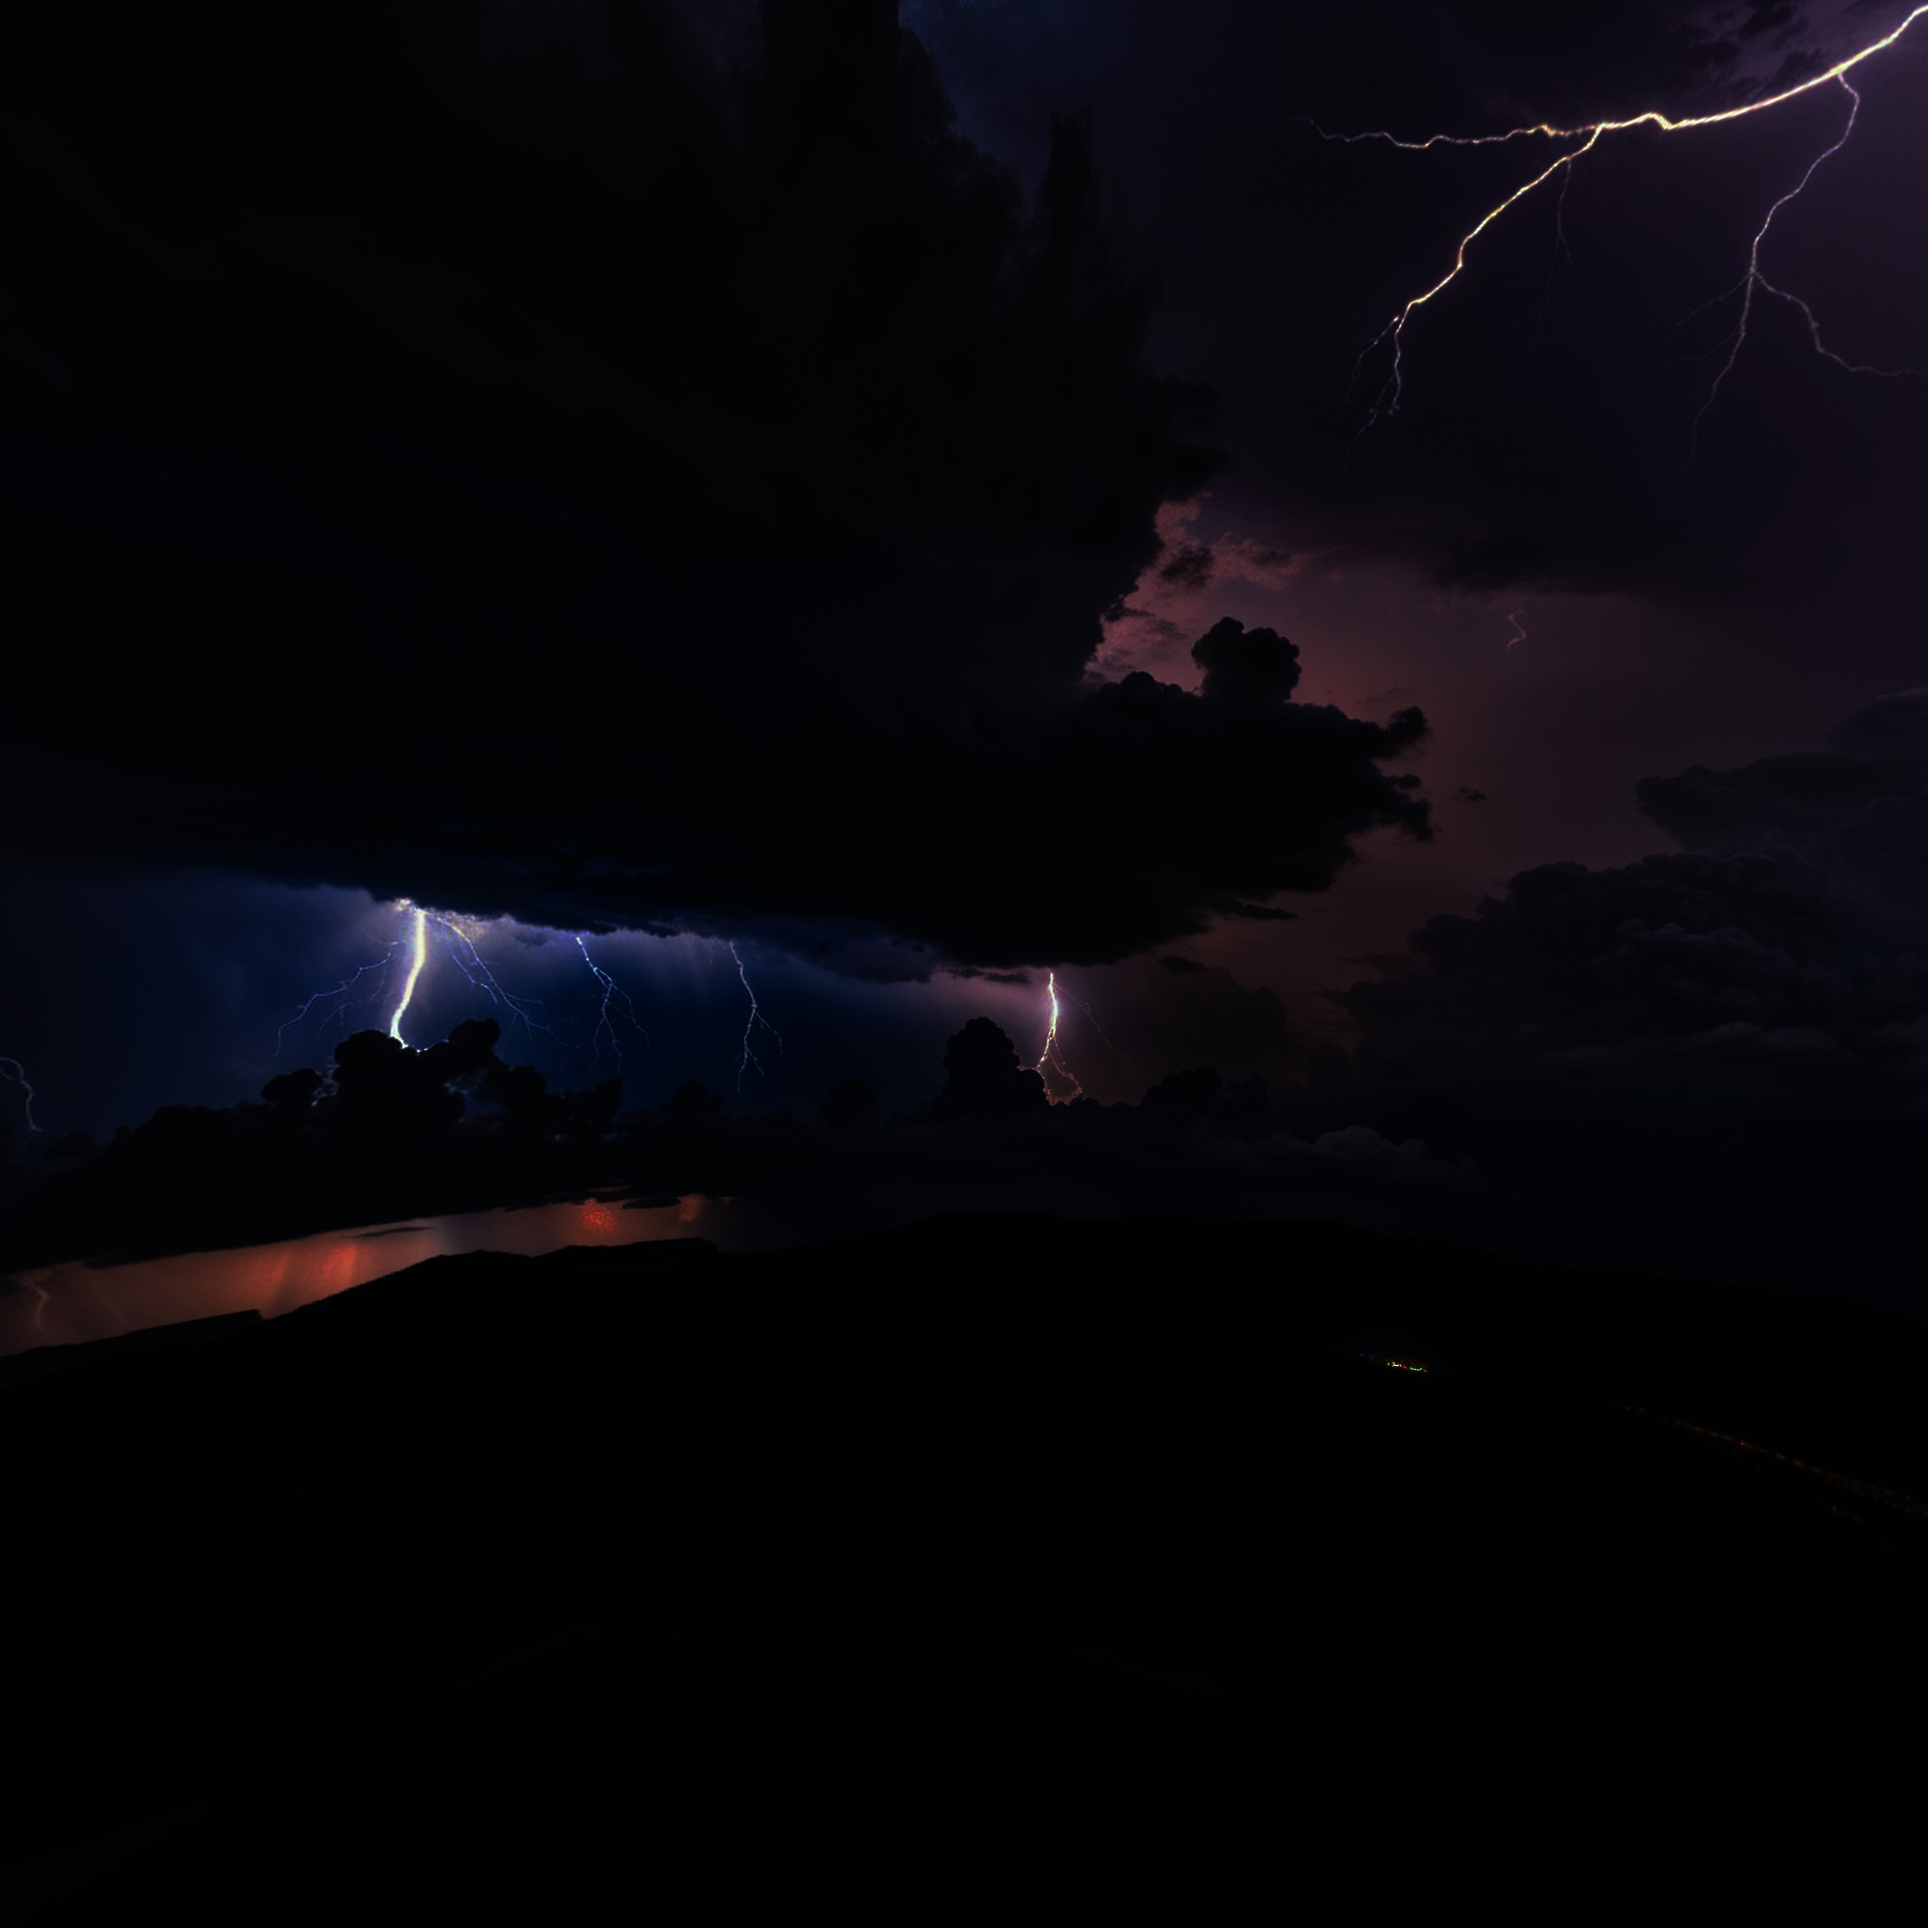
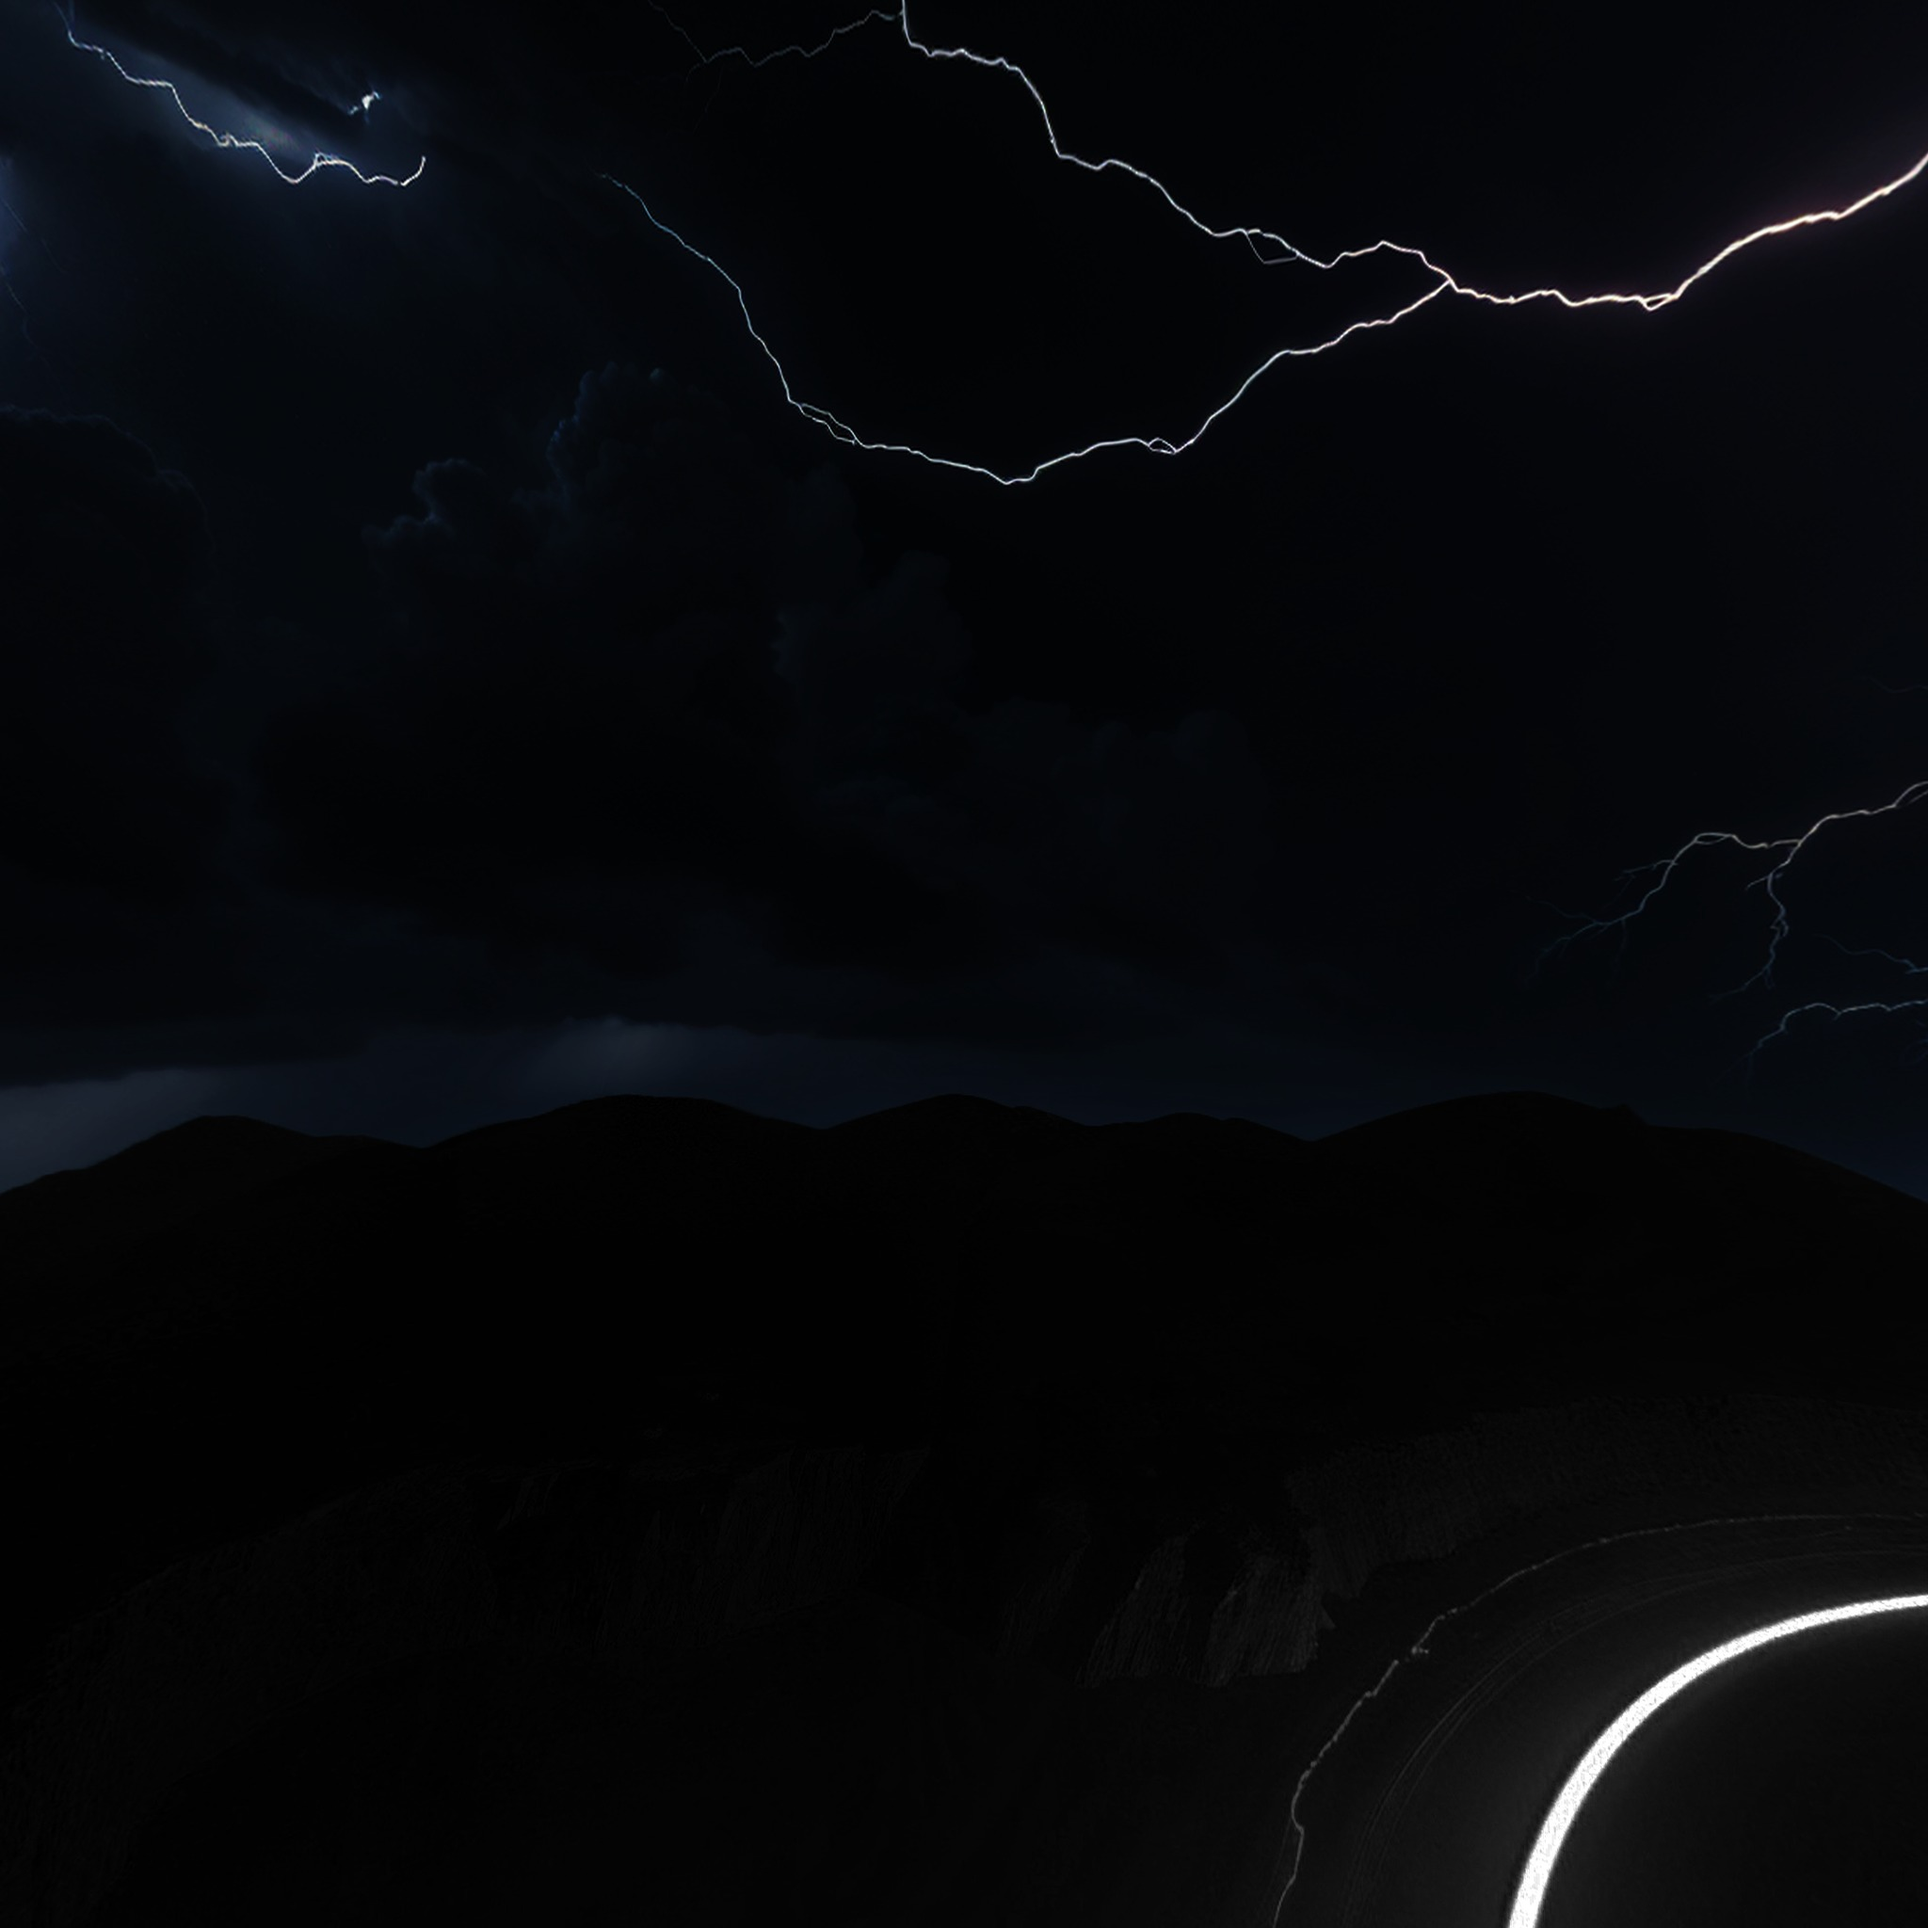
improved thunder

diff --git a/assets/thunderstorm script.js b/assets/thunderstorm script.js
@@ -53,39 +53,41 @@ wetMaterial.reflectionTexture.level = .5; // Adjust reflection intensity
 // Apply the material to the mapMesh
 mapMesh.material = wetMaterial;
 
-var skyboxName = "thunderstorm",
-skybox = BABYLON.MeshBuilder.CreateBox("skyBox", {
-    size: 100
-}, gameScene);
-skybox.infiniteDistance = true;
-skyboxMaterial = new BABYLON.StandardMaterial("skyBox", gameScene);
-skyboxMaterial.backFaceCulling = false, skyboxMaterial.fogEnabled = false;
-skyboxMaterial.reflectionTexture = new BABYLON.CubeTexture("img/skyboxes/" + skyboxName + "/skybox", gameScene);
-skyboxMaterial.reflectionTexture.coordinatesMode = BABYLON.Texture.SKYBOX_MODE, skyboxMaterial.diffuseColor = new BABYLON.Color3(0, 0, 0), skyboxMaterial.specularColor = new BABYLON.Color3(0, 0, 0), skybox.material = skyboxMaterial
+setSkybox("thunderstorm");
 
 gameScene.texturesEnabled = false;
 gameScene.fogColor = new BABYLON.Color4(0, 0, 0, 1);
 gameScene.fogDensity = .5;
+
+mapMesh.overlayAlpha = 0.1;
+mapMesh.overlayColor = {r: 1, g: 1, b: 1};
+mapMesh.renderOverlay = false;
 
 Sounds.rain.play();
 
 window.addEventListener('keydown', function(event) {
     if (event.key === '[') {
         gameScene.fogDensity = .1;
+        skybox.rotation.y = Math.PI2 * 2 * Math.random();
         gameScene.texturesEnabled = true;
+        mapMesh.renderOverlay = true;
         setTimeout(() => {
             Sounds.thunder.play();
         }, 250);
         setTimeout(() => {
             gameScene.fogDensity = .5;
+            mapMesh.renderOverlay = false;
             gameScene.texturesEnabled = false;
         }, 100);
         setTimeout(() => {
             gameScene.fogDensity = .1;
+            skybox.rotation.y = Math.PI2 * 2 * Math.random();
+            mapMesh.renderOverlay = true;
             gameScene.texturesEnabled = true;
         }, 200);
         setTimeout(() => {
             gameScene.fogDensity = .5;
+            mapMesh.renderOverlay = false;
             gameScene.texturesEnabled = false;
         }, 400);
     }

diff --git a/server-client/src/client-static/src/shellshock.min.js b/server-client/src/client-static/src/shellshock.min.js
@@ -3093,9 +3093,6 @@ function generateLightmapAndSkybox(This, complete) { //14th, creates the lightma
                 mapMesh.freezeWorldMatrix();
                 if (!noSkybox) {
                     var skyboxName = minMap.skybox || "default";
-                    skybox = BABYLON.MeshBuilder.CreateBox("skyBox", {
-                        size: 100
-                    }, gameScene);
                     setSkybox(skyboxName);
                 };
                 onComplete()
@@ -3105,6 +3102,13 @@ function generateLightmapAndSkybox(This, complete) { //14th, creates the lightma
 };
 
 function setSkybox(skyboxName) {
+    if (skybox) {
+        skybox.dispose();
+        skybox = null;
+    };
+    skybox = BABYLON.MeshBuilder.CreateBox("skyBox", {
+        size: 100
+    }, gameScene);
     skybox.infiniteDistance = true;
     skyboxMaterial = new BABYLON.StandardMaterial("skyBox", gameScene);
     skyboxMaterial.backFaceCulling = false, skyboxMaterial.fogEnabled = false;
